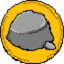
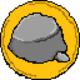
Estrutura organizada, novo icone de janela e novo efeito visual do botão de escolha

diff --git a/main.py b/main.py
@@ -2,13 +2,13 @@
 from tkinter import *
 import tkinter as tk
 from random import randint 
-from PIL import Image, ImageTk
+from PIL import Image, ImageTk, ImageEnhance
 from tkinter import font as tkfont
 
 ## Variáveis
 palavras = ["Pedra", "Papel", "Tesoura", "Lagarto", "Spock"]
 backup = ["Pedra", "Papel", "Tesoura", "Lagarto", "Spock!"]
-computador = randint(0,4)
+computador = randint(0, 4)
 player = -1
 start = False
 janela_lar = 500
@@ -55,6 +55,7 @@ def opicao(opcoes):
     player = opcoes
     computador = randint(0, 4)
     jokenpo()
+
 
 def trocafoto():
     if computador == 0:
@@ -145,8 +146,24 @@ def animacaogif(canva, localgif):
         canva.tag_lower(canva.create_image(0, 0, image=frame, anchor="nw", tags="gif"))
         frameagora = (frameagora + 1) % len(frames)
         janela.after(100, animar)
-
     animar()
+
+def brilho(imagem, fator):
+    escurecer = ImageEnhance.Brightness(imagem)
+    return escurecer.enhance(fator)
+
+# Função para quando o botão for pressionado
+def pressionado(event, btn, canva, referencia):
+    canva.tag_bind("pedra", "<ButtonRelease>", lambda event: opicao(0))
+    canva.tag_bind("papel", "<ButtonRelease>", lambda event: opicao(1))
+    canva.tag_bind("tesoura", "<ButtonRelease>", lambda event: opicao(2))
+    canva.tag_bind("lagarto", "<ButtonRelease>", lambda event: opicao(3))
+    canva.tag_bind("spock", "<ButtonRelease>", lambda event: opicao(4))
+    canva.itemconfig(btn, image=referencia['preto'])
+
+# Função para quando o botão for solto
+def solto(event, btn, canva, referencia):
+    canva.itemconfig(btn, image=referencia['normal'])
 
 ## Janela
 
@@ -154,9 +171,8 @@ def animacaogif(canva, localgif):
 janela = Tk()
 janela.iconbitmap("imagem/icon.ico")
 tela1 = Frame(janela)
-tela2 = Frame(janela)
 tela2 = tk.Frame(janela, bg="white")
-janela.title("Pedra, Papel, Tesoura, Lagarto, Spock!")
+janela.title("Spacepô")
 janela.resizable(False, False)
 lar_monitor = janela.winfo_screenwidth()
 alt_monitor = janela.winfo_screenheight()
@@ -178,28 +194,58 @@ serifnegrito = tkfont.Font(family="MS Sans Serif", size=22, weight="bold")
 # Coisas que tem na tela 1
 irajuda = Button(tela1, text="REGRAS", command=irtela2)
 
+# Formatação das imagens dos botões
 imgpedra = Image.open("imagem/pedra.png")
-imgpapel = Image.open("imagem/papel.png")
-imgtesoura = Image.open("imagem/tesoura.png")
-imglagarto = Image.open("imagem/lagarto.png")
-imgspock = Image.open("imagem/spock.png")
-
+imgpepre = brilho(imgpedra, 0.5)
 fotope = ImageTk.PhotoImage(imgpedra)
-btn1 = canva.create_image(50, 450, image=fotope, tags="botao")
-canva.tag_bind(btn1, "<Button-1>", lambda event: opicao(0)) #btn pedra
+pedrapre = ImageTk.PhotoImage(imgpepre)
+imgpapel = Image.open("imagem/papel.png")
+imgpapre = brilho(imgpapel, 0.5)
 fotopa = ImageTk.PhotoImage(imgpapel)
-btn2 = canva.create_image(150, 450, image=fotopa, tags="botao")
-canva.tag_bind(btn2, "<Button-1>", lambda event: opicao(1)) #btn papel
+papelpre = ImageTk.PhotoImage(imgpapre)
+imgtesoura = Image.open("imagem/tesoura.png")
+imgtespre = brilho(imgtesoura, 0.5)
 fototes = ImageTk.PhotoImage(imgtesoura)
-btn3 = canva.create_image(250, 450, image=fototes, tags="botao")
-canva.tag_bind(btn3, "<Button-1>", lambda event: opicao(2)) #btn tesoura
+tespre = ImageTk.PhotoImage(imgtespre)
+imglagarto = Image.open("imagem/lagarto.png")
+imglagpre = brilho(imglagarto, 0.5)
 fotolag = ImageTk.PhotoImage(imglagarto)
-btn4 = canva.create_image(350, 450, image=fotolag, tags="botao")
-canva.tag_bind(btn4, "<Button-1>", lambda event: opicao(3)) #btn lagarto
-fotospo = ImageTk.PhotoImage(imgspock)
-btn5 = canva.create_image(450, 450, image=fotospo, tags="botao")
-canva.tag_bind(btn5, "<Button-1>", lambda event: opicao(4)) #btn spock
+lagpre = ImageTk.PhotoImage(imglagpre)
+imgspock = Image.open("imagem/spock.png")
+imgspocpre = brilho(imgspock, 0.5)
+fotospock = ImageTk.PhotoImage(imgspock)
+spockpre = ImageTk.PhotoImage(imgspocpre)
 
+referencia = {
+    'pedra': {'normal': fotope, 'preto': pedrapre},
+    'papel': {'normal': fotopa, 'preto': papelpre},
+    'tesoura': {'normal': fototes, 'preto': tespre},
+    'lagarto': {'normal': fotolag, 'preto': lagpre},
+    'spock': {'normal': fotospock, 'preto': spockpre},
+}
+
+# Botões de escolha
+btn1 = canva.create_image(50, 450, image=fotope, tags="pedra")
+btn2 = canva.create_image(150, 450, image=fotopa, tags="papel")
+btn3 = canva.create_image(250, 450, image=fototes, tags="tesoura")
+btn4 = canva.create_image(350, 450, image=fotolag, tags="lagarto")
+btn5 = canva.create_image(450, 450, image=fotospock, tags="spock")
+
+
+
+# Binding de 'pressionado' e 'solto' nos botões
+canva.tag_bind(btn1, "<ButtonPress>", lambda event, btn=btn1: pressionado(event, btn, canva, referencia['pedra']))
+canva.tag_bind(btn1, "<ButtonRelease>", lambda event, btn=btn1: solto(event, btn, canva, referencia['pedra']))
+canva.tag_bind(btn2, "<ButtonPress>", lambda event, btn=btn2: pressionado(event, btn, canva, referencia['papel']))
+canva.tag_bind(btn2, "<ButtonRelease>", lambda event, btn=btn2: solto(event, btn, canva, referencia['papel']))
+canva.tag_bind(btn3, "<ButtonPress>", lambda event, btn=btn3: pressionado(event, btn, canva, referencia['tesoura']))
+canva.tag_bind(btn3, "<ButtonRelease>", lambda event, btn=btn3: solto(event, btn, canva, referencia['tesoura']))
+canva.tag_bind(btn4, "<ButtonPress>", lambda event, btn=btn4: pressionado(event, btn, canva, referencia['lagarto']))
+canva.tag_bind(btn4, "<ButtonRelease>", lambda event, btn=btn4: solto(event, btn, canva, referencia['lagarto']))
+canva.tag_bind(btn5, "<ButtonPress>", lambda event, btn=btn5: pressionado(event, btn, canva, referencia['spock']))
+canva.tag_bind(btn5, "<ButtonRelease>", lambda event, btn=btn5: solto(event, btn, canva, referencia['spock']))
+
+# Variaveis de imagem
 logo = PhotoImage(file = 'imagem/logo.png')
 vsimg = PhotoImage(file = 'imagem/vs.png')
 scplay = PhotoImage(file = 'imagem/scoreplayer.png')
